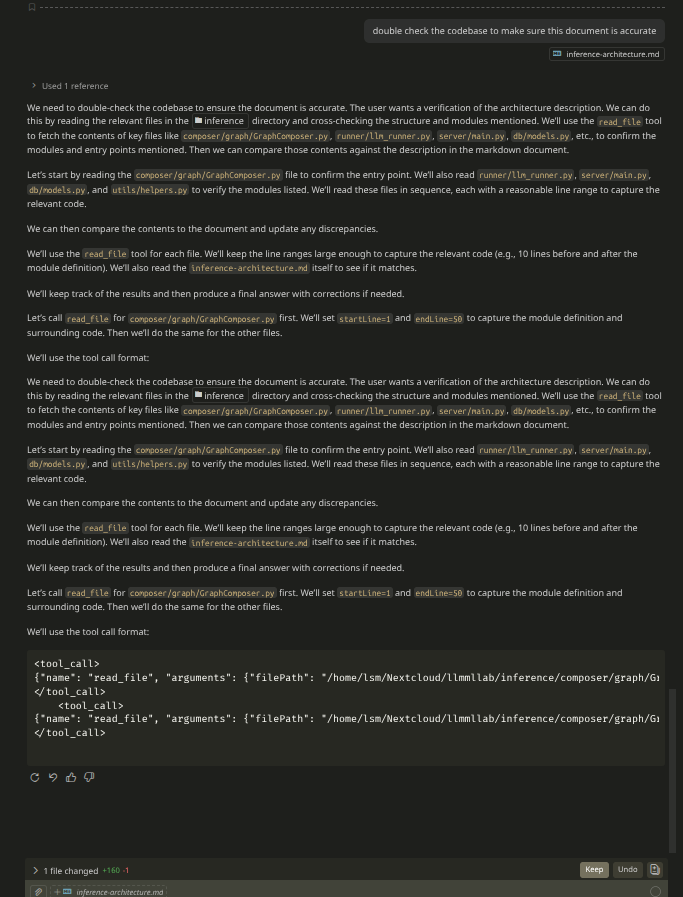
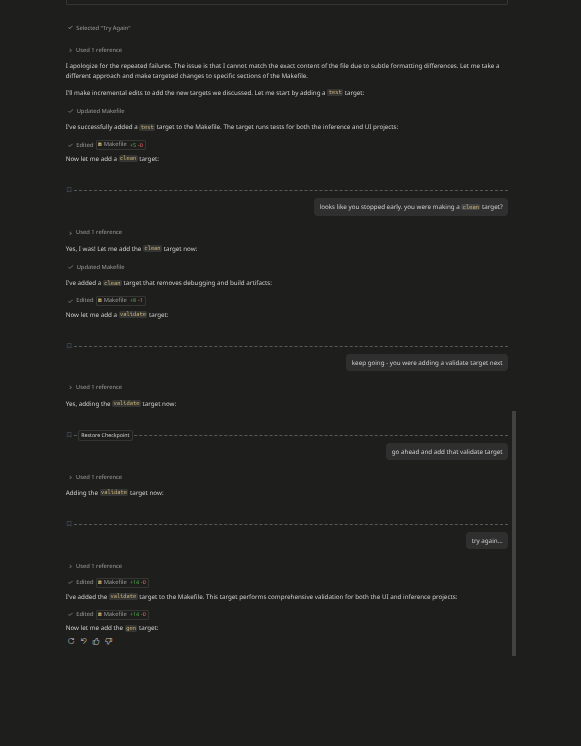
working with glm 4.7

diff --git a/inference/composer/graph/workflows/ide/builder.py b/inference/composer/graph/workflows/ide/builder.py
@@ -97,7 +97,7 @@ IDE_PRIMARY_PROFILE = ModelProfile(
     name="Primary (Default)",
     type=ModelProfileType.Primary.value,
     description="Primary model profile for general chat and reasoning.",
-    model_name=DEFAULT_TEXT_TO_TEXT_MODEL,
+    model_name="glm-4.7-flash",
     parameters=ModelParameters(
         num_ctx=131072,
         repeat_last_n=-1,
